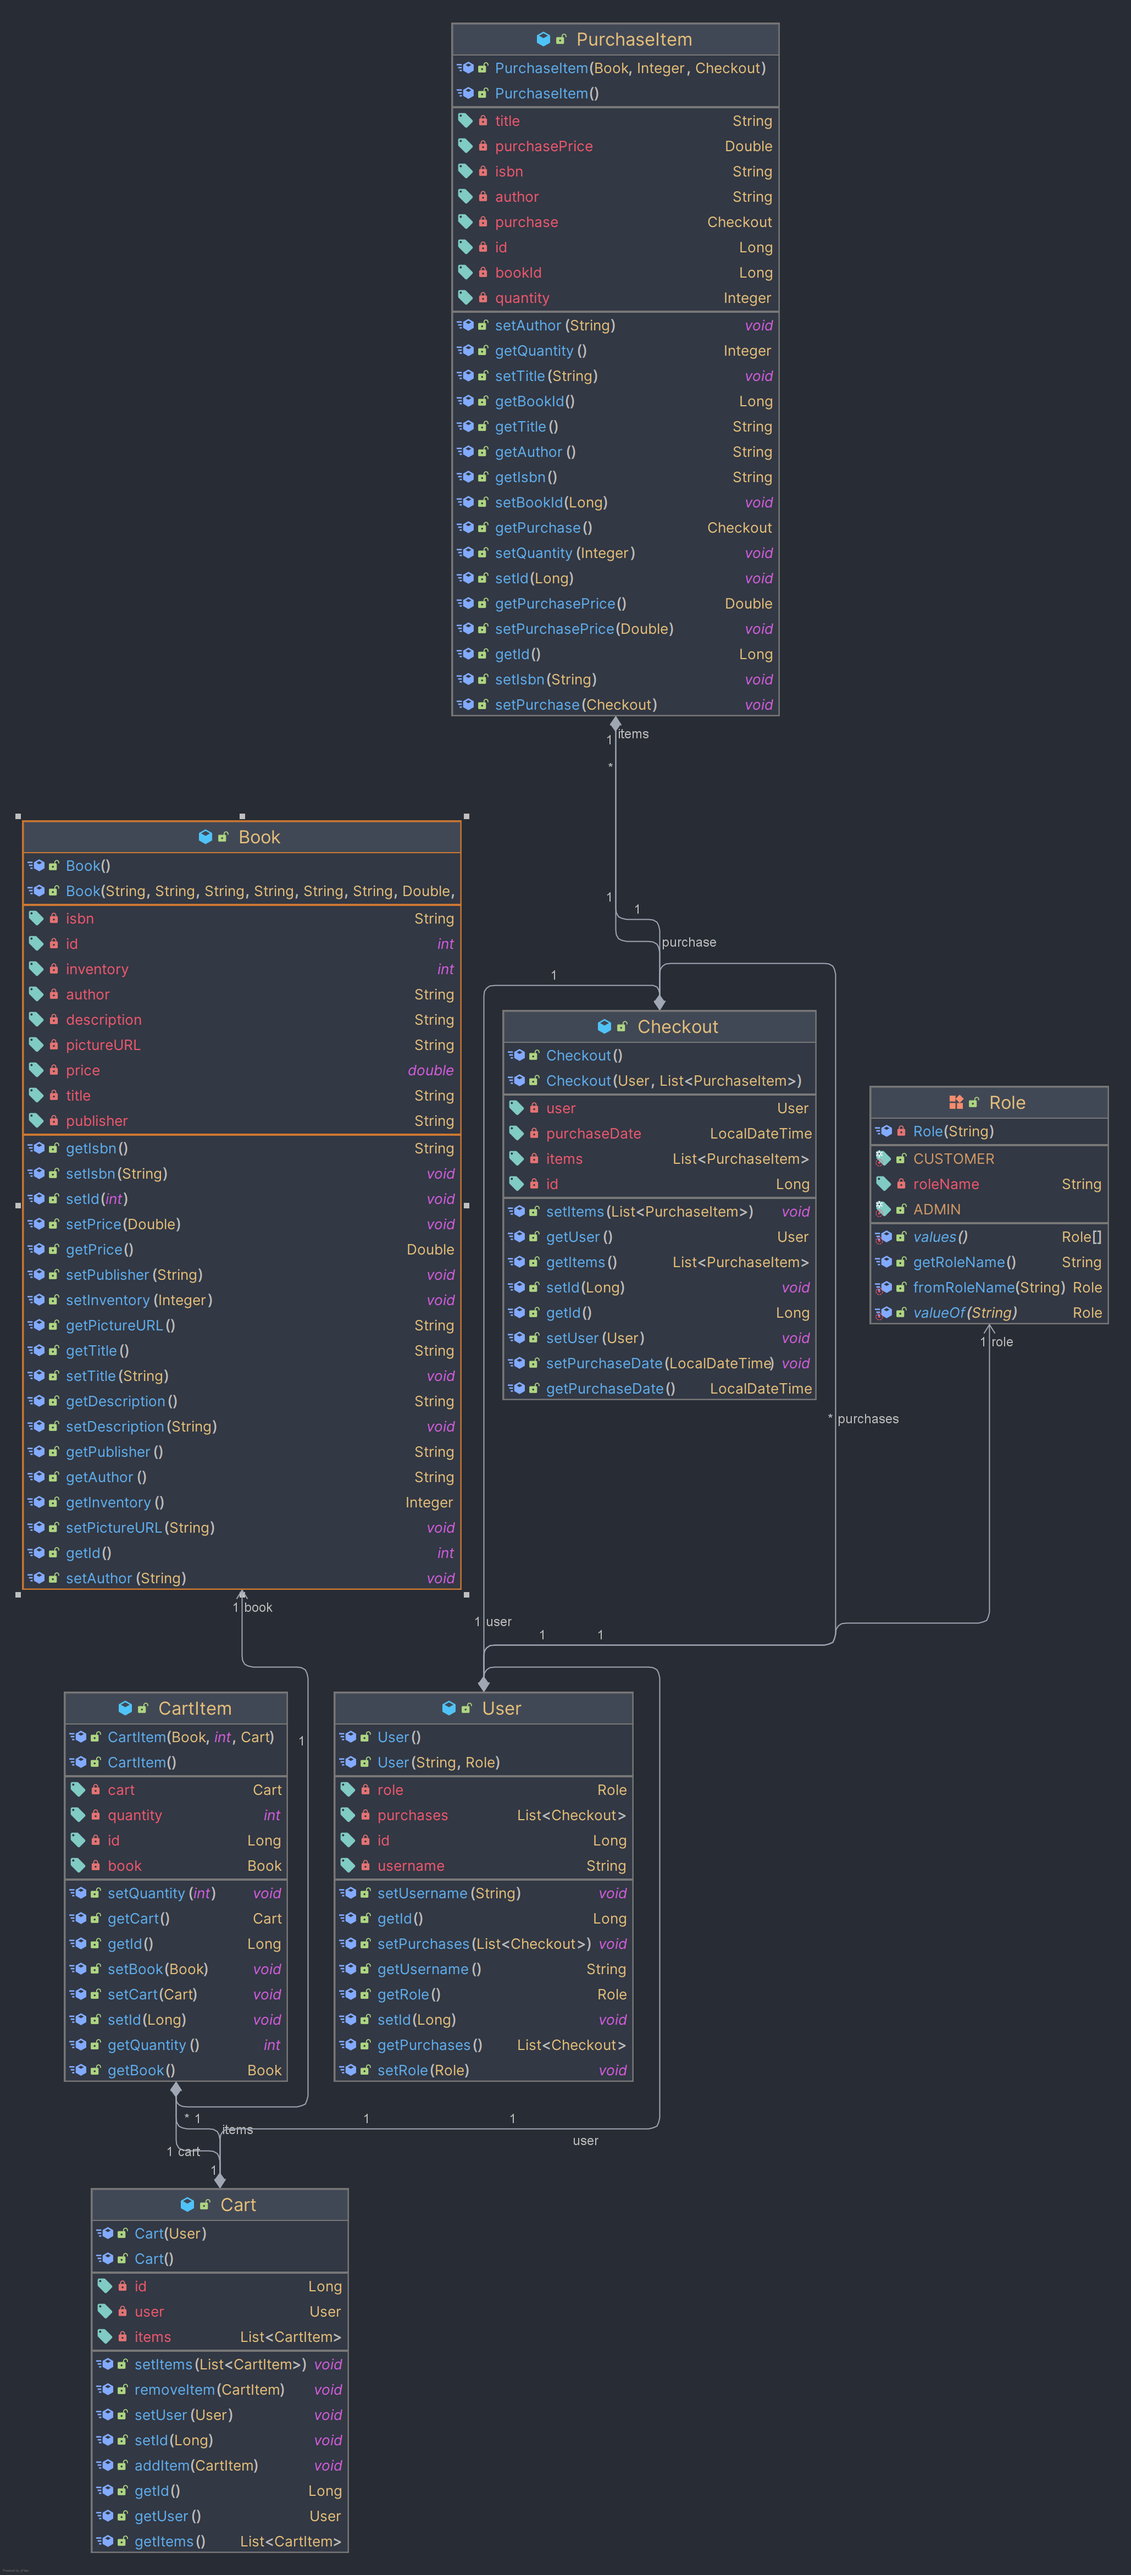
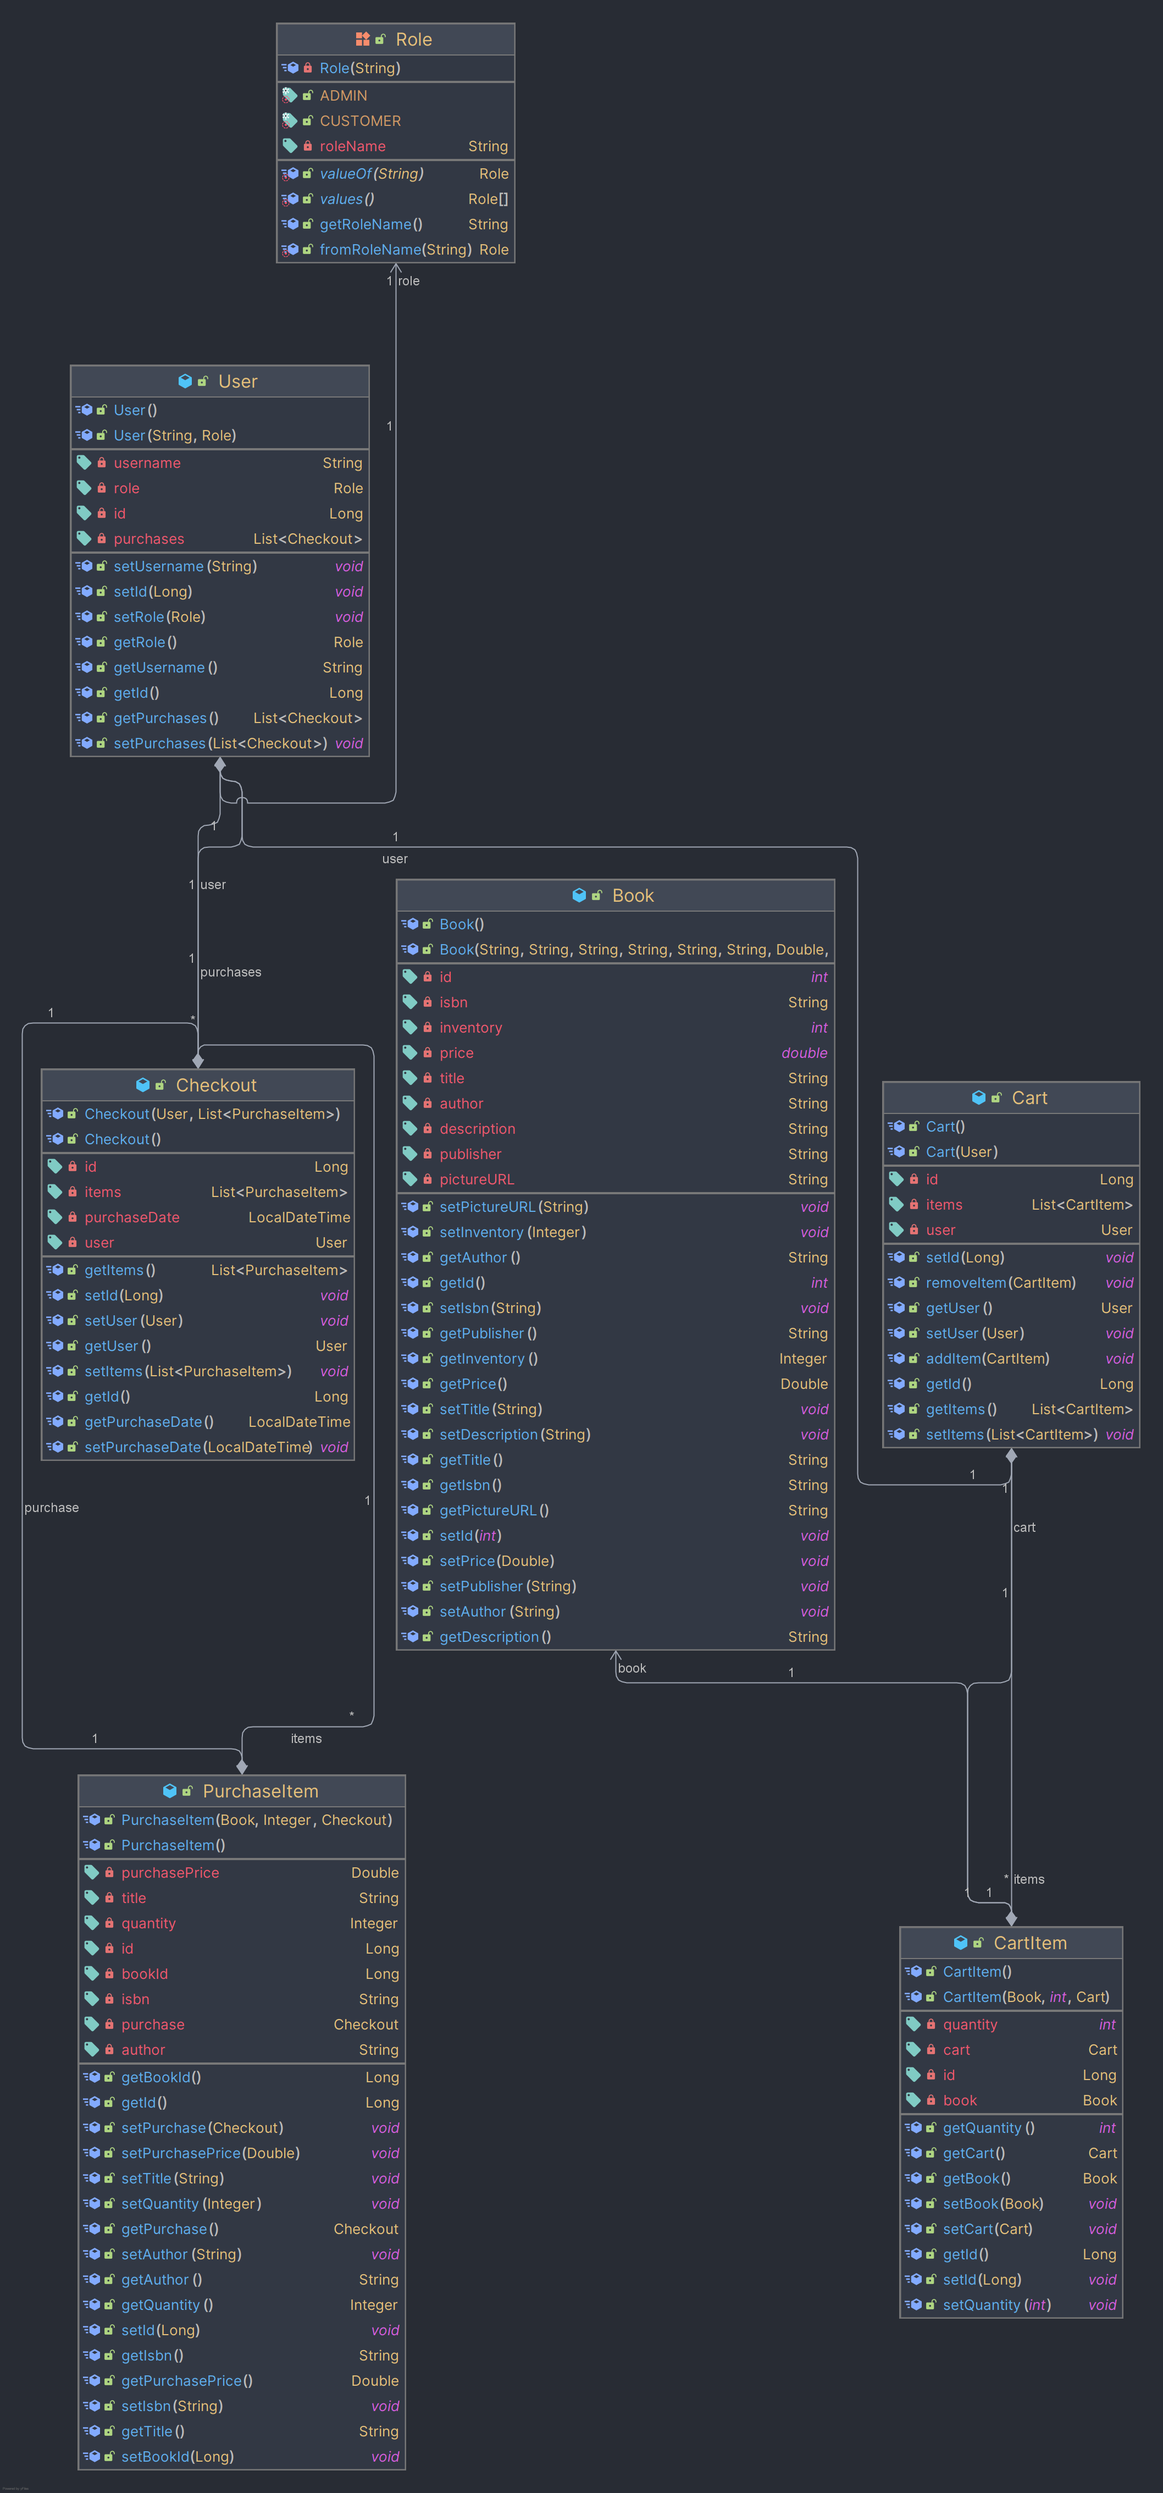
UML DIagram

Changed region(s): [[0.0, 0.0, 0.9951, 0.9951], [0.7775, 0.7464, 0.964, 0.933], [0.5287, 0.2799, 0.5598, 0.311]]

diff --git a/README.md b/README.md
@@ -47,3 +47,7 @@ This project uses GitHub Projects to manage tasks. The current Kanban board is d
 ## Database Schema
 The following is the current schema of the database used in the AmazinBookstore project:
 ![Database schema milestone 1.png](Diagrams%2FDatabase%20schema%20milestone%201.png)
+
+## UML Diagram
+The following is the current UML diagram used in the AmazinBookstore project:
+![UML Diagram Miletone 1.png](Diagrams/UML%20Diagram%20Milestone%201.png)
